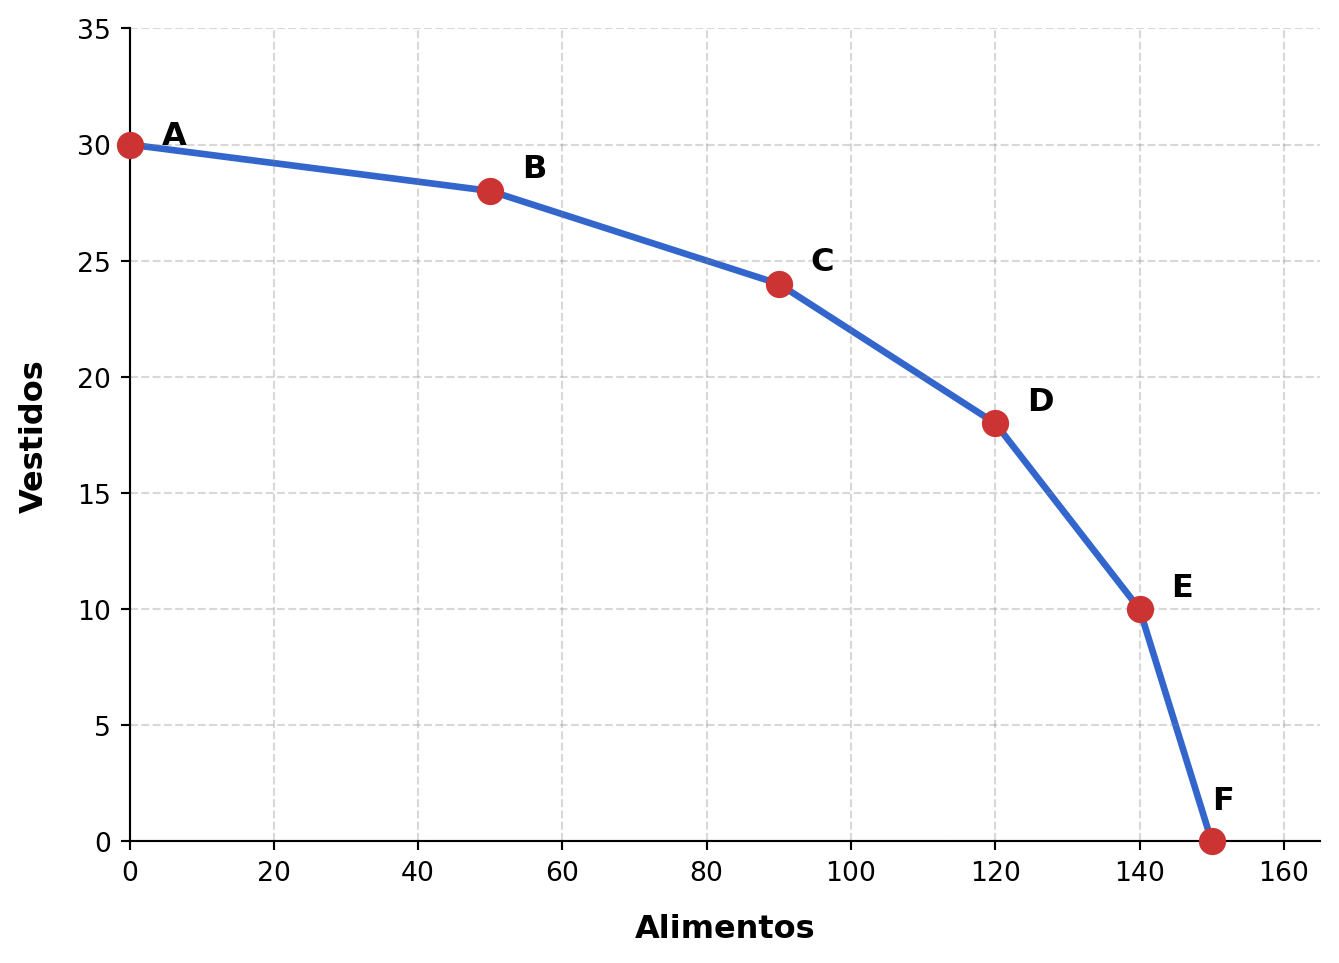
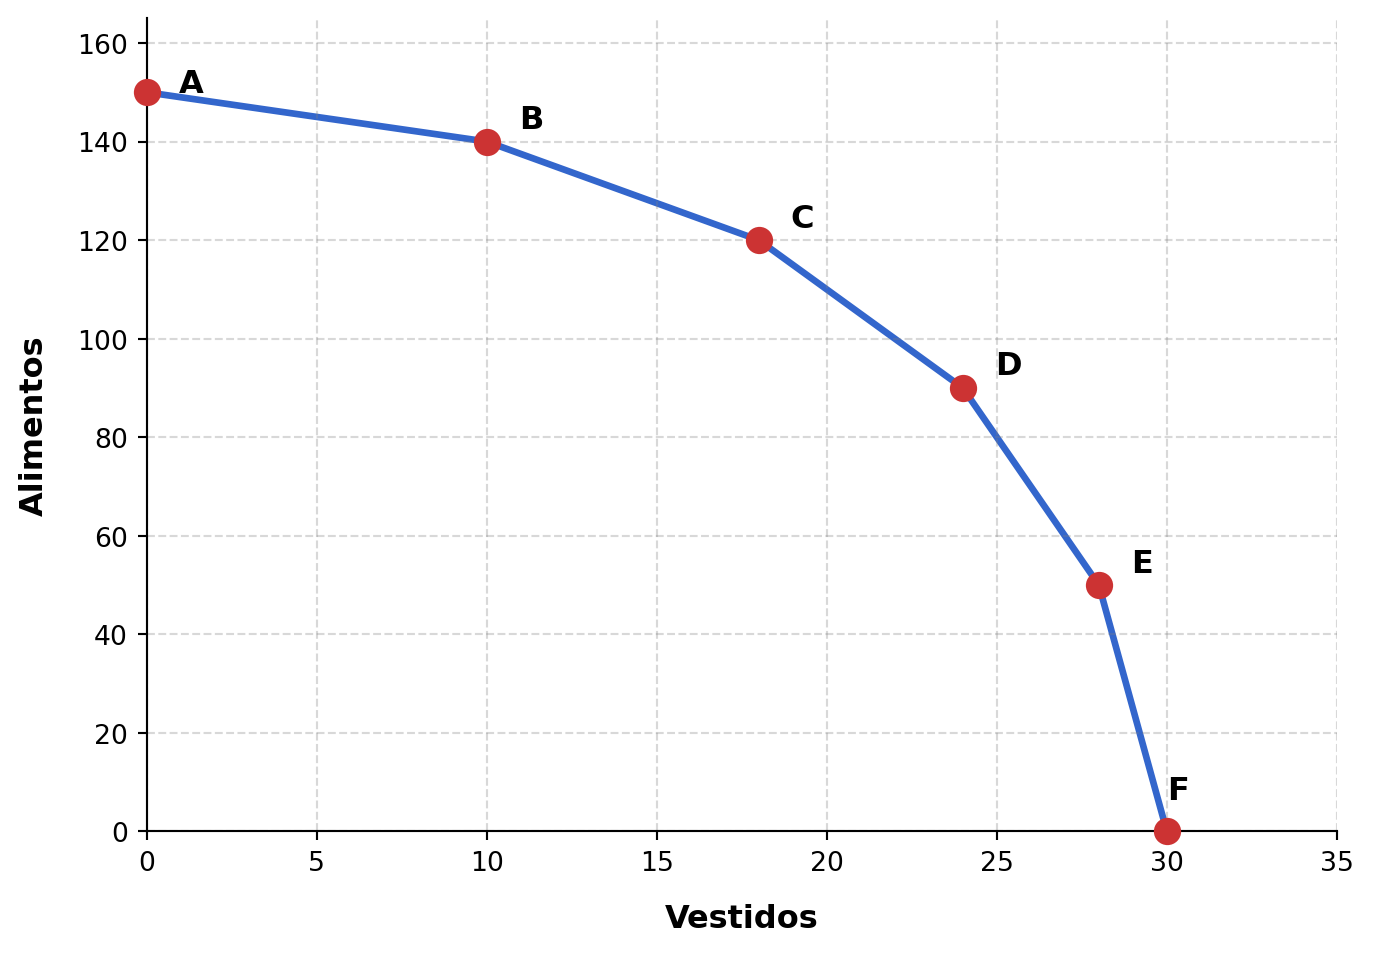
Built site for gh-pages

diff --git a/intro.html b/intro.html
@@ -261,7 +261,7 @@ window.Quarto = {
   <ul class="collapse">
   <li><a href="#configuración-del-modelo-y-factores-de-producción" id="toc-configuración-del-modelo-y-factores-de-producción" class="nav-link" data-scroll-target="#configuración-del-modelo-y-factores-de-producción"><span class="header-section-number">1.6.1</span> Configuración del modelo y factores de producción</a></li>
   <li><a href="#tablas-de-producción" id="toc-tablas-de-producción" class="nav-link" data-scroll-target="#tablas-de-producción"><span class="header-section-number">1.6.2</span> Tablas de producción</a></li>
-  <li><a href="#combinaciones-de-producción-eficientes" id="toc-combinaciones-de-producción-eficientes" class="nav-link" data-scroll-target="#combinaciones-de-producción-eficientes"><span class="header-section-number">1.6.3</span> Combinaciones de Producción Eficientes</a></li>
+  <li><a href="#combinaciones-de-producción-eficientes" id="toc-combinaciones-de-producción-eficientes" class="nav-link" data-scroll-target="#combinaciones-de-producción-eficientes"><span class="header-section-number">1.6.3</span> Combinaciones de producción eficientes</a></li>
   <li><a href="#propiedades-de-la-fpp" id="toc-propiedades-de-la-fpp" class="nav-link" data-scroll-target="#propiedades-de-la-fpp"><span class="header-section-number">1.6.4</span> Propiedades de la FPP</a></li>
   <li><a href="#la-fpp-y-el-coste-de-oportunidad" id="toc-la-fpp-y-el-coste-de-oportunidad" class="nav-link" data-scroll-target="#la-fpp-y-el-coste-de-oportunidad"><span class="header-section-number">1.6.5</span> La FPP y el Coste de Oportunidad</a></li>
   <li><a href="#desplazamientos-de-la-frontera" id="toc-desplazamientos-de-la-frontera" class="nav-link" data-scroll-target="#desplazamientos-de-la-frontera"><span class="header-section-number">1.6.6</span> Desplazamientos de la Frontera</a></li>
@@ -509,7 +509,7 @@ Tabla&nbsp;1.2: Producción máxima de vestidos según el factor trabajo
 <p>Las tablas de producción para estos dos bienes reflejan una importante ley económica: la <strong>Ley de Rendimientos Decrecientes</strong>. A medida que se asignan más unidades de trabajo a una cantidad fija de tierra o capital, el incremento en la producción final es cada vez menor.</p>
 </section>
 <section id="combinaciones-de-producción-eficientes" class="level3" data-number="1.6.3">
-<h3 data-number="1.6.3" class="anchored" data-anchor-id="combinaciones-de-producción-eficientes"><span class="header-section-number">1.6.3</span> Combinaciones de Producción Eficientes</h3>
+<h3 data-number="1.6.3" class="anchored" data-anchor-id="combinaciones-de-producción-eficientes"><span class="header-section-number">1.6.3</span> Combinaciones de producción eficientes</h3>
 <p>Dado que el factor trabajo (<span class="math inline">\(L = 5\)</span>) es limitado, la sociedad debe decidir cómo distribuirlo entre ambas industrias. Se puede optar por destinar toda la tierra y el trabajo a los alimentos, todo el capital y el trabajo a los vestidos, o buscar un punto intermedio.</p>
 <p>Al realizar esta asignación, se obtienen <strong>seis combinaciones posibles</strong> de producción máxima (del punto A al F):</p>
 <div id="tbl-fpp-alimentos-vestidos" class="quarto-float quarto-figure quarto-figure-center anchored">
@@ -529,10 +529,10 @@ Tabla&nbsp;1.3: Posibilidades de producción de alimentos y vestidos
 <thead>
 <tr class="header">
 <th style="text-align: center;">Combinación</th>
-<th style="text-align: center;">Trabajo Alimentos</th>
-<th style="text-align: center;">Trabajo Vestidos</th>
-<th style="text-align: center;">Producción Alimentos</th>
-<th style="text-align: center;">Producción Vestidos</th>
+<th style="text-align: center;">Trabajo produciendo vestidos</th>
+<th style="text-align: center;">Trabajo produciendo alimentos</th>
+<th style="text-align: center;">Producción de vestidos</th>
+<th style="text-align: center;">Producción de alimentos</th>
 </tr>
 </thead>
 <tbody>
@@ -541,41 +541,41 @@ Tabla&nbsp;1.3: Posibilidades de producción de alimentos y vestidos
 <td style="text-align: center;">0</td>
 <td style="text-align: center;">5</td>
 <td style="text-align: center;">0</td>
-<td style="text-align: center;">30</td>
+<td style="text-align: center;">150</td>
 </tr>
 <tr class="even">
 <td style="text-align: center;"><strong>B</strong></td>
 <td style="text-align: center;">1</td>
 <td style="text-align: center;">4</td>
-<td style="text-align: center;">50</td>
-<td style="text-align: center;">28</td>
+<td style="text-align: center;">10</td>
+<td style="text-align: center;">140</td>
 </tr>
 <tr class="odd">
 <td style="text-align: center;"><strong>C</strong></td>
 <td style="text-align: center;">2</td>
 <td style="text-align: center;">3</td>
-<td style="text-align: center;">90</td>
-<td style="text-align: center;">24</td>
+<td style="text-align: center;">18</td>
+<td style="text-align: center;">120</td>
 </tr>
 <tr class="even">
 <td style="text-align: center;"><strong>D</strong></td>
 <td style="text-align: center;">3</td>
 <td style="text-align: center;">2</td>
-<td style="text-align: center;">120</td>
-<td style="text-align: center;">18</td>
+<td style="text-align: center;">24</td>
+<td style="text-align: center;">90</td>
 </tr>
 <tr class="odd">
 <td style="text-align: center;"><strong>E</strong></td>
 <td style="text-align: center;">4</td>
 <td style="text-align: center;">1</td>
-<td style="text-align: center;">140</td>
-<td style="text-align: center;">10</td>
+<td style="text-align: center;">28</td>
+<td style="text-align: center;">50</td>
 </tr>
 <tr class="even">
 <td style="text-align: center;"><strong>F</strong></td>
 <td style="text-align: center;">5</td>
 <td style="text-align: center;">0</td>
-<td style="text-align: center;">150</td>
+<td style="text-align: center;">30</td>
 <td style="text-align: center;">0</td>
 </tr>
 </tbody>
@@ -597,7 +597,7 @@ Tabla&nbsp;1.3: Posibilidades de producción de alimentos y vestidos
 <div id="fig-fpp-grafico" class="quarto-float quarto-figure quarto-figure-center anchored">
 <figure class="quarto-float quarto-float-fig figure">
 <div aria-describedby="fig-fpp-grafico-caption-0ceaefa1-69ba-4598-a22c-09a6ac19f8ca">
-<img src="intro_files/figure-html/fig-fpp-grafico-output-1.png" width="670" height="482" class="figure-img">
+<img src="intro_files/figure-html/fig-fpp-grafico-output-1.png" width="687" height="477" class="figure-img">
 </div>
 <figcaption class="quarto-float-caption-bottom quarto-float-caption quarto-float-fig" id="fig-fpp-grafico-caption-0ceaefa1-69ba-4598-a22c-09a6ac19f8ca">
 Figura&nbsp;1.1: Representación gráfica de la Frontera de Posibilidades de Producción (FPP)
